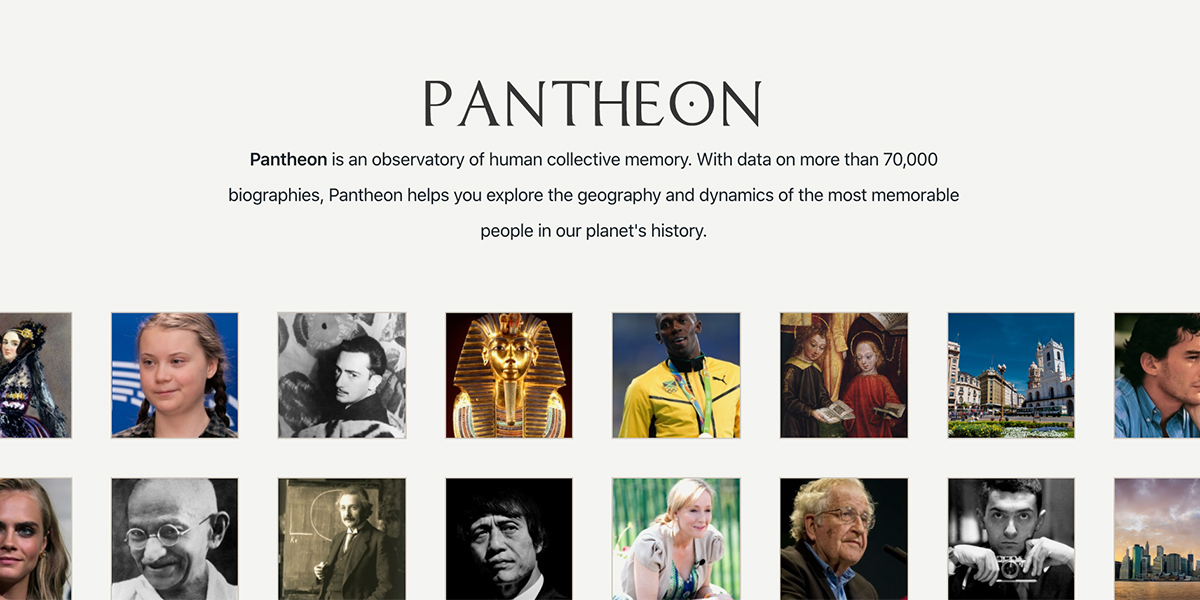
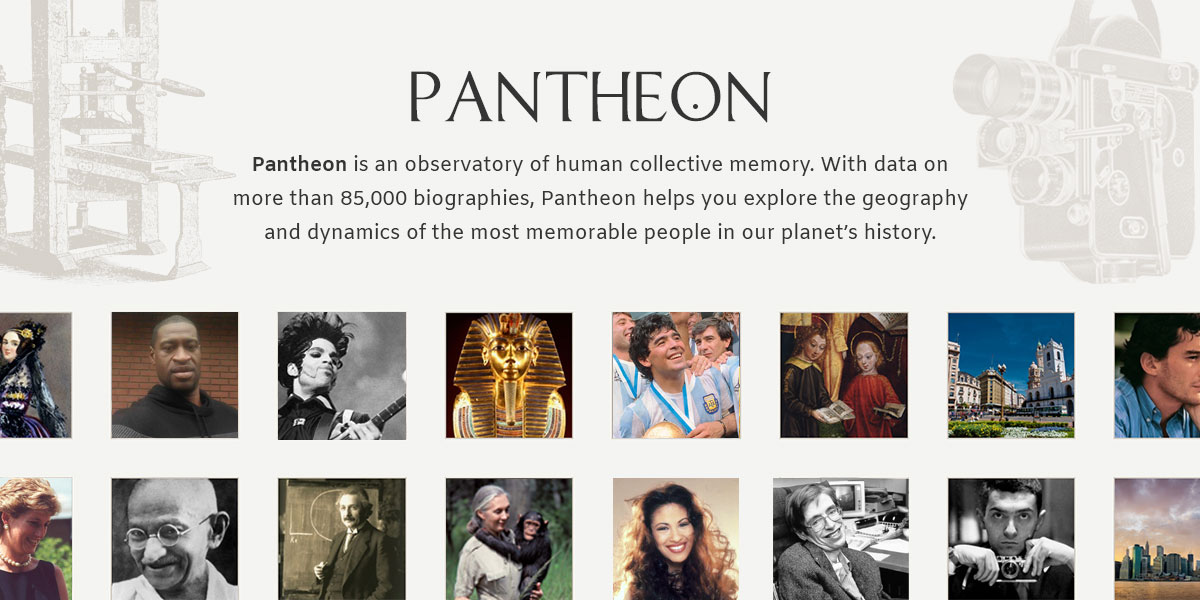
adds new dataset links and updates share image

diff --git a/app/pages/data/Datasets.jsx b/app/pages/data/Datasets.jsx
@@ -5,23 +5,27 @@ const Datasets = () =>
     <h1>Download Data</h1>
     <h2>Pantheon 2.0 datasets</h2>
     <dl className="download-dl">
-      <dt><a href="https://pantheon.world/data/files/person_latest.csv.bz2">person_latest.csv.bz2</a></dt>
-      <dd>A compressed comma delimited file containing a row of data per person found in the Panthon 2.0 dataset.</dd>
+      <dt><a href="https://storage.googleapis.com/pantheon-public-data/person_2020_update.csv.bz2">2020 Person Dataset</a></dt>
+      <dd>A bzip compressed comma delimited file containing a row of data per person found in the Panthon 2.0 version released in 2020.</dd>
+    </dl>
+    <dl className="download-dl">
+      <dt><a href="https://storage.googleapis.com/pantheon-public-data/person_2019_update.csv.bz2">2019 Person Dataset</a></dt>
+      <dd>A bzip compressed comma delimited file containing a row of data per person found in the Panthon 2.0 version released in 2019.</dd>
     </dl>
     <br />
     <hr />
     <br />
     <h2>Pantheon 1.0 datasets</h2>
     <dl className="download-dl">
-      <dt><a href="https://pantheon.world/data/files/pantheon.tsv.bz2">pantheon.tsv</a></dt>
+      <dt><a href="https://storage.googleapis.com/pantheon-public-data/legacy_pantheon.tsv.bz2">pantheon.tsv</a></dt>
       <dd>A tab delimited file containing a row of data per person found in the Panthon 1.0 dataset.</dd>
     </dl>
     <dl className="download-dl">
-      <dt><a href="https://pantheon.world/data/files/wikilangs.tsv.bz2">wikilangs.tsv</a></dt>
+      <dt><a href="https://storage.googleapis.com/pantheon-public-data/legacy_wikilangs.tsv.bz2">wikilangs.tsv</a></dt>
       <dd>A tab delimited file of all the different Wikipedia language editions that each biography has a presence in.</dd>
     </dl>
     <dl className="download-dl">
-      <dt><a href="https://pantheon.world/data/files/pageviews_2008-2013.tsv.bz2">pageviews_2008-2013.tsv</a></dt>
+      <dt><a href="https://storage.googleapis.com/pantheon-public-data/legacy_pageviews_2008-2013.tsv.bz2">pageviews_2008-2013.tsv</a></dt>
       <dd>A file containing the monthly pageview data for each individual, for all the Wikipedia language editions in which they have a presence.</dd>
     </dl>
     <p className="outro">Please refer to the <a href="/about/methods">methods</a> section for more information on how this data was created. For detailed descriptions of these datasets, please refer to our <a href="https://arxiv.org/abs/1502.07310">data descriptor paper</a>.</p>
